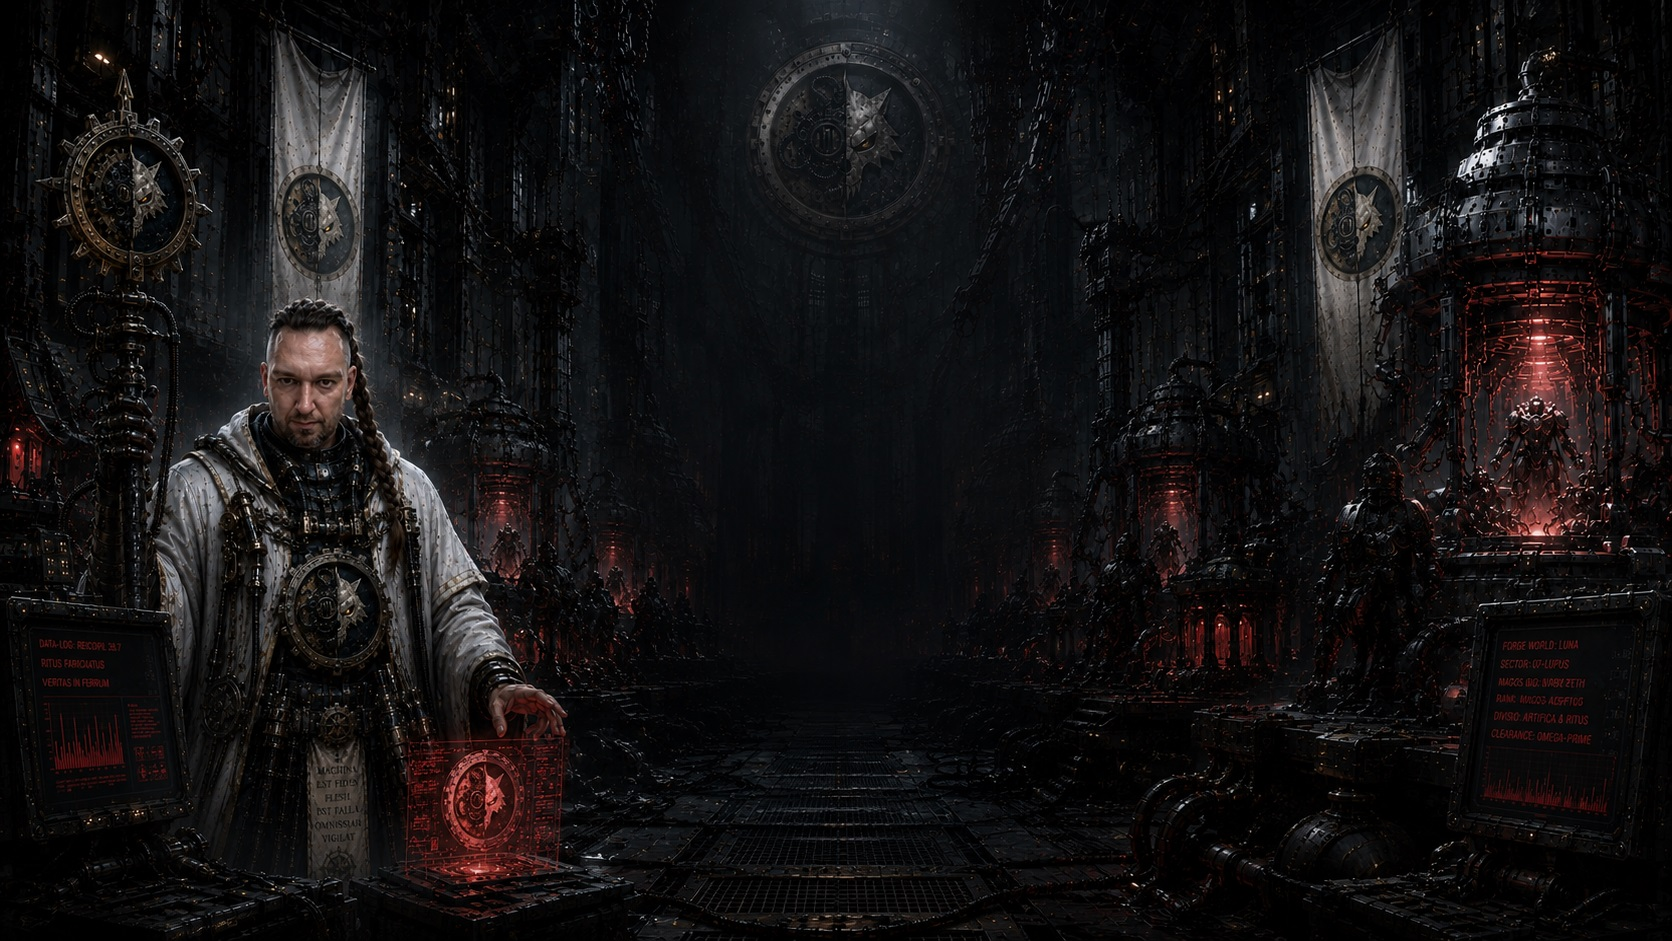
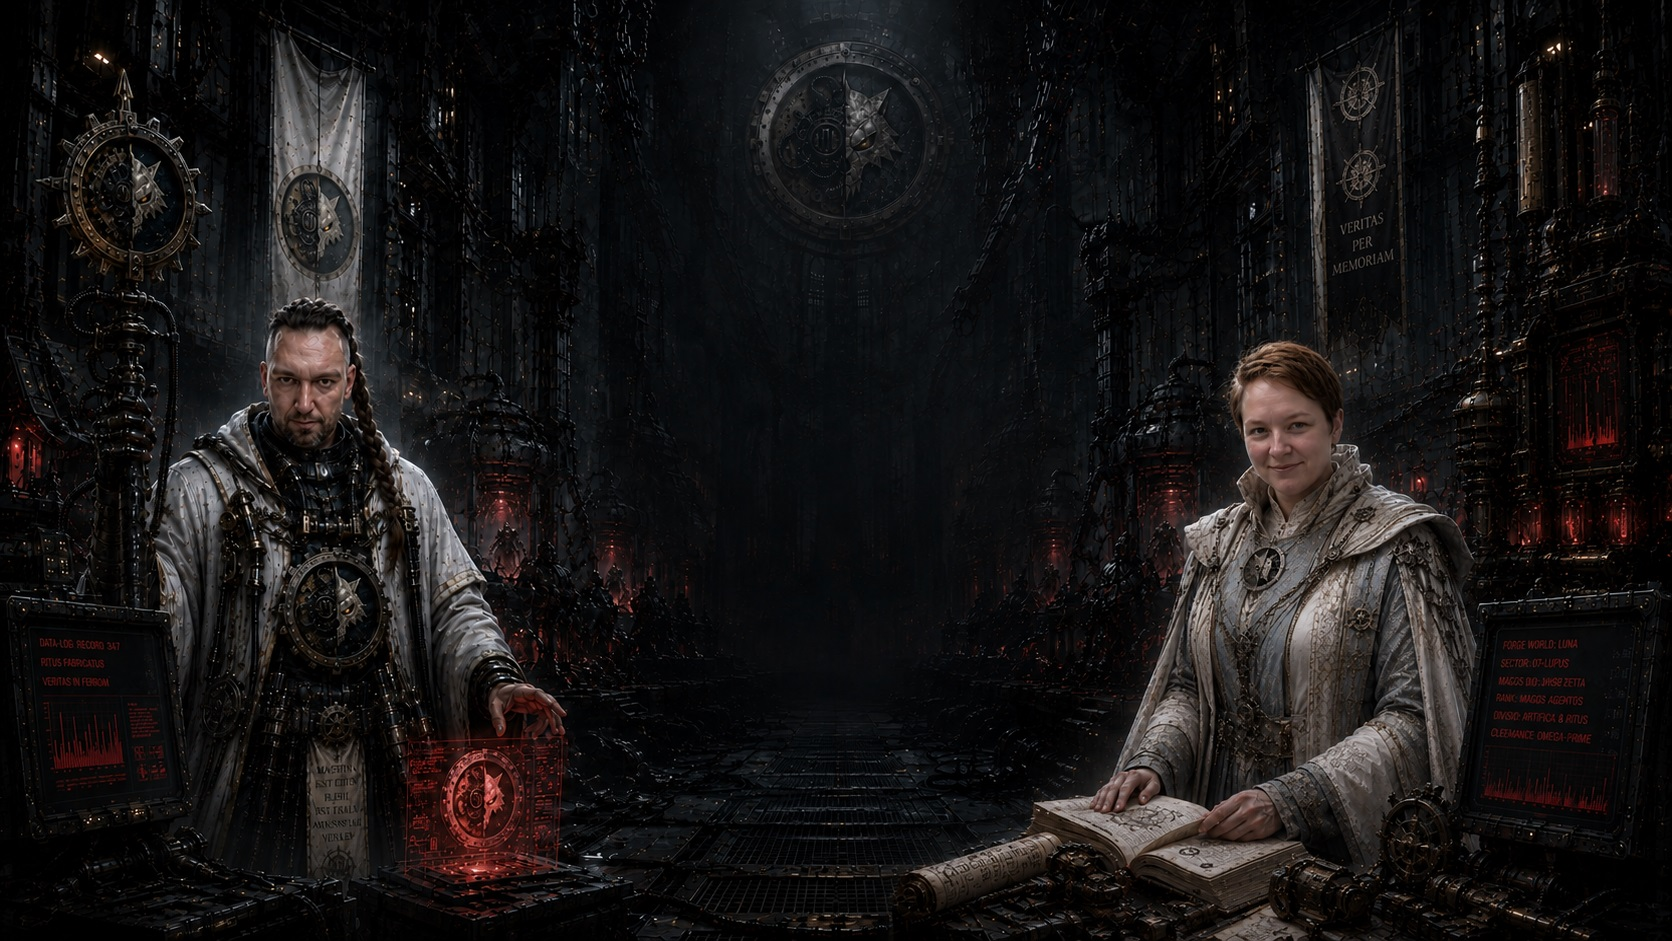
Update1305202601

diff --git a/webstyle/archiv.css b/webstyle/archiv.css
@@ -1,0 +1,273 @@
+/* =====================================================
+   ARCHIV LUNA MECHANICA
+===================================================== */
+
+* {
+    margin: 0;
+    padding: 0;
+    box-sizing: border-box;
+}
+
+/* =====================================================
+   BODY
+===================================================== */
+
+body.archiv-page {
+
+    min-height: 100vh;
+
+    padding: 100px 20px;
+
+    background:
+        linear-gradient(rgba(0,0,0,0.35),
+        rgba(0,0,0,0.45)),
+        url("../webimages/ArchivBG.jpg");
+
+    background-size: cover;
+    background-position: center;
+    background-repeat: no-repeat;
+    background-attachment: fixed;
+
+    color: #ddd;
+
+    font-family: 'MedievalSharp', cursive;
+}
+
+/* =====================================================
+   JEMNÝ OVERLAY / ATMOSFÉRA
+===================================================== */
+
+body.archiv-page::before {
+
+    content: "";
+
+    position: fixed;
+
+    inset: 0;
+
+    background:
+        linear-gradient(
+            rgba(255,215,120,0.02),
+            rgba(0,0,0,0.15)
+        );
+
+    pointer-events: none;
+
+    z-index: 0;
+}
+
+/* =====================================================
+   HEADER
+===================================================== */
+
+header {
+
+    position: relative;
+
+    z-index: 1;
+
+    text-align: center;
+
+    padding: 100px 20px 60px;
+}
+
+header h1 {
+
+    font-size: 55px;
+
+    margin-bottom: 20px;
+
+    color: #d6b36a;
+
+    text-shadow:
+        0 0 10px rgba(214, 179, 106, 0.4);
+}
+
+header p {
+
+    max-width: 700px;
+
+    line-height: 1.7;
+
+    color: #9b9b9b;
+
+    margin-bottom: 40px;
+
+    margin-left: auto;
+    margin-right: auto;
+
+    text-align: center;
+
+    text-shadow:
+    0 0 10px rgba(0,0,0,0.8);
+}
+/* =====================================================
+   GRID SEKCE
+===================================================== */
+
+.archive-grid {
+
+    width: 100%;
+    max-width: 1200px;
+
+    margin: auto;
+
+    display: grid;
+
+    grid-template-columns: repeat(auto-fit, minmax(280px, 1fr));
+
+    gap: 30px;
+}
+
+/* =====================================================
+   KARTY
+===================================================== */
+
+.archive-card {
+
+    padding: 40px;
+
+    background: rgba(0, 0, 0, 0.15);
+
+    border: 1px solid rgba(214, 179, 106, 0.2);
+
+    border-radius: 14px;
+
+    text-decoration: none;
+
+    transition: 0.3s;
+
+    box-shadow:
+        0 0 30px rgba(0, 0, 0, 0.6),
+        0 0 20px rgba(120, 20, 20, 0.15);
+}
+
+.archive-card:hover {
+
+    transform: scale(1.03);
+
+    border-color: rgba(214,179,106,0.45);
+
+    box-shadow:
+        0 0 20px rgba(214, 179, 106, 0.15);
+}
+
+/* HOVER */
+
+.archive-card:hover {
+
+    transform: translateY(-8px);
+
+    border-color: rgba(212,175,55,0.55);
+
+    box-shadow:
+        0 0 25px rgba(212,175,55,0.15),
+        0 0 60px rgba(0,0,0,0.7);
+}
+
+/* NADPIS */
+
+.archive-card h2 {
+
+    color: #d6b36a;
+
+    margin-bottom: 15px;
+
+    font-size: 32px;
+}
+
+.archive-card p {
+
+    color: #aaa;
+
+    line-height: 1.7;
+}
+
+/* =====================================================
+   DEKORATIVNÍ GLOW
+===================================================== */
+
+.archive-card::after {
+
+    content: "";
+
+    position: absolute;
+
+    width: 180px;
+
+    height: 180px;
+
+    background:
+        radial-gradient(
+            circle,
+            rgba(212,175,55,0.08),
+            transparent 70%
+        );
+
+    top: -60px;
+
+    right: -60px;
+
+    pointer-events: none;
+}
+
+/* =====================================================
+   RESPONSIVE
+===================================================== */
+
+@media (max-width: 768px) {
+
+    header h1 {
+
+        font-size: 2.5rem;
+    }
+
+    .archive-grid {
+
+        padding: 30px;
+    }
+
+    .archive-card {
+
+        padding: 35px 25px;
+    }
+}
+.back-link{
+
+    display: inline-flex;
+
+    align-items: center;
+    justify-content: center;
+
+    padding: 14px 24px;
+
+    margin-top: 25px;
+
+    background: rgba(0,0,0,0.45);
+
+    border: 1px solid rgba(214,179,106,0.25);
+
+    border-radius: 10px;
+
+    color: #d6b36a;
+
+    text-decoration: none;
+
+    font-size: 15px;
+
+    font-family: 'MedievalSharp', cursive;
+
+    transition: 0.3s;
+}
+
+.back-link:hover{
+
+    background: rgba(80,50,20,0.45);
+
+    border-color: rgba(214,179,106,0.45);
+
+    color: #f0d49a;
+
+    box-shadow:
+        0 0 15px rgba(214,179,106,0.15);
+}

diff --git a/archiv.html b/archiv.html
@@ -1,0 +1,83 @@
+<!DOCTYPE html>
+<html lang="cs">
+
+<head>
+
+    <meta charset="UTF-8">
+
+    <meta name="viewport" content="width=device-width, initial-scale=1.0">
+
+    <title>Archiv Luna Mechanica</title>
+
+    <link rel="stylesheet" href="webstyle/archiv.css">
+
+    <!-- FONT -->
+    <link href="https://fonts.googleapis.com/css2?family=Cinzel:wght@400;600;700&display=swap" rel="stylesheet">
+
+</head>
+
+<body class="archiv-page">
+   
+
+    <!-- HEADER -->
+
+    <header>
+
+        <h1>Archiv Luna Mechanica</h1>
+
+        <p>
+            Archiv konstrukcí, kronik a vizuálních záznamů
+            napříč epochami Luna Mechanica.
+        </p>
+
+         <a href="index.html" class="back-link">
+            Návrat na hlavní stránku
+        </a>
+
+    </header>
+
+    <!-- SEKCE -->
+
+    <main class="archive-grid">
+
+        <!-- KRONIKY -->
+
+        <a href="#" class="archive-card">
+
+            <h2>Kroniky</h2>
+
+            <p>
+                Záznamy, příběhy Luna Mechanika.
+            </p>
+
+        </a>
+
+        <!-- GALERIE -->
+
+        <a href="#" class="archive-card">
+
+            <h2>Galerie</h2>
+
+            <p>
+                Vizuální archiv Luna Mechanica.
+            </p>
+
+        </a>
+
+        <!-- HUDBA -->
+
+        <a href="#" class="archive-card">
+
+            <h2>Hudební přenosy</h2>
+
+            <p>
+                Ambientní přenosy, soundtracky.
+            </p>
+
+        </a>
+
+    </main>
+
+</body>
+
+</html>

diff --git a/index.html b/index.html
@@ -33,9 +33,9 @@
 
             <!-- MENU -->
         <nav>
-            <a href="o-dilne.html" class="nav-button">O dílně Luna Mechanica</a>
+            <a href="o-dilne.html" class="nav-button">Představitelé Luna Mechanica</a>
             <a href="STC-Luna.html" class="nav-button">STC Luna</a>
-            <a href="Příběhy.html" class="nav-button">Příběhy Luna Mechanika</a>
+            <a href="Archiv.html" class="nav-button">Archiv Luna Mechanica</a>
             <a href="zprava.html" class="nav-button">Vox zpráva</a>
         </nav> 
         </p>

diff --git a/o-dilne.html b/o-dilne.html
@@ -18,7 +18,7 @@
 
     <section class="about-page">
 
-        <h1>O dílně</h1>
+        <h1>Představitelé Luny Mechanica</h1>
             <a href="index.html" class="back-button">
             ← Zpět na úvod
             </a> 